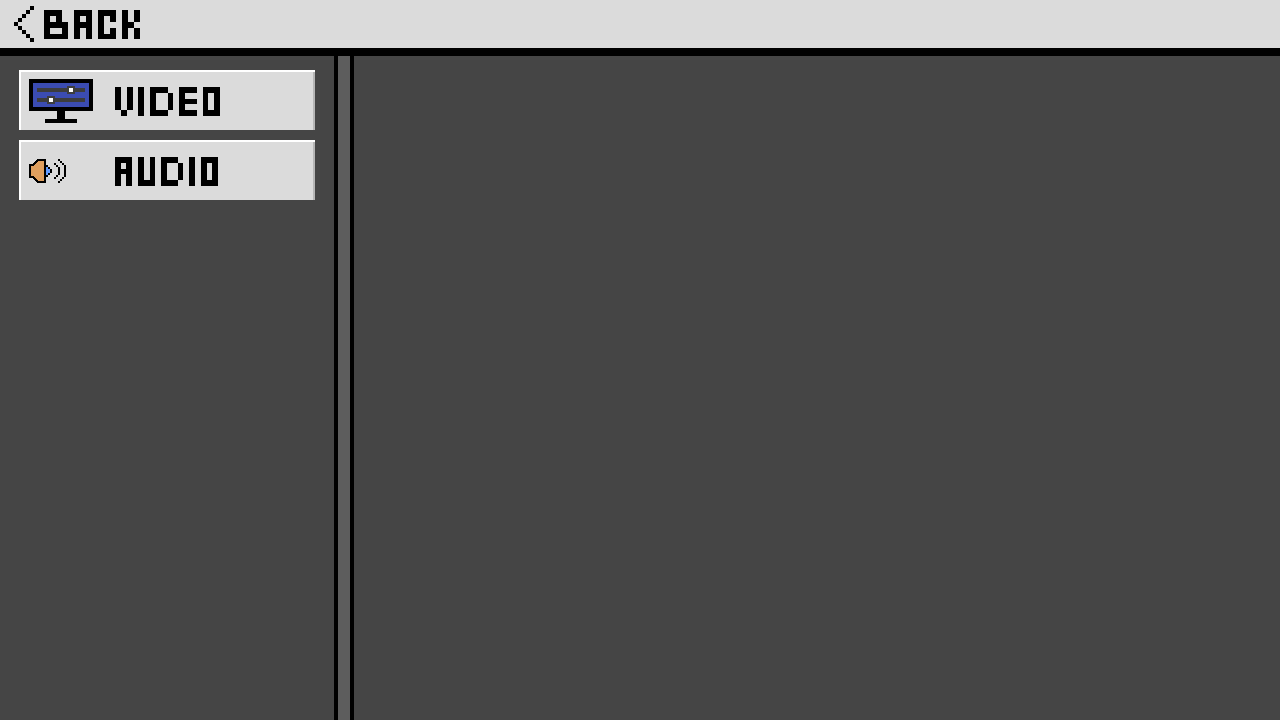
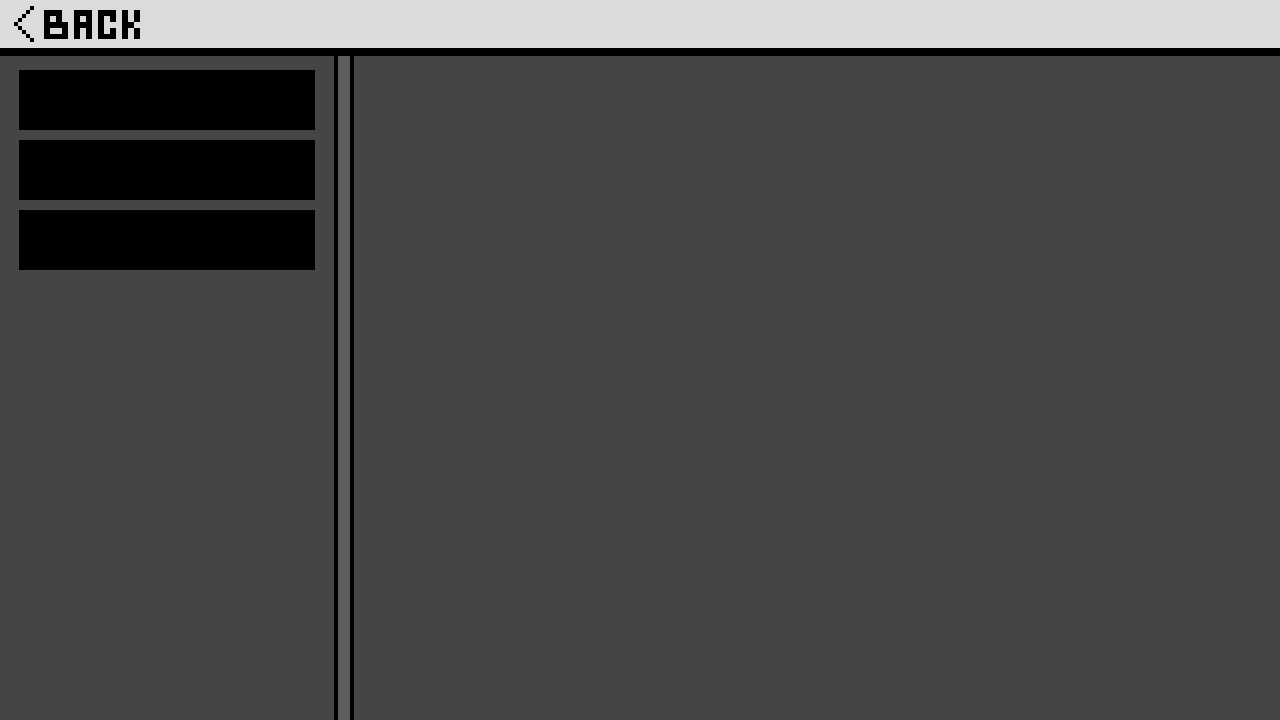
key_selection

Changed region(s): [[0.0, 0.0917, 0.25, 0.3972]]

diff --git a/module.py b/module.py
@@ -1390,15 +1390,26 @@ def menu(run_game):
         flag_mouse_volume_music = False
         rect_volume_music = pygame.Rect(SCREEN_W//3.2,SCREEN_H//2.3,SCREEN_W//1.6,SCREEN_H//25)
         mouse_volume_music = pygame.Rect(MUSIC_VOLUME*rect_volume_music.width/100+rect_volume_music.x,rect_volume_music.top-(SCREEN_H//45*3-rect_volume_music.height)//2,SCREEN_H//72*2,SCREEN_H//45*3)
-        
-        
+        distation_button = SCREEN_H//5.15-SCREEN_H//10.3
+        button_video = Graphic_elements(SCREEN_W//67.3, SCREEN_H//10.3, SCREEN_W//4.3, SCREEN_H//11.7,"image/menu/button/video_w.png")
+        button_audio = Graphic_elements(SCREEN_W//67.3, SCREEN_H//10.3+distation_button, SCREEN_W//4.3, SCREEN_H//11.7,"image/menu/button/audio_w.png")
+        button_control = Graphic_elements(SCREEN_W//67.3, SCREEN_H//10.3+distation_button*2, SCREEN_W//4.3, SCREEN_H//11.7,"image/menu/button/control_w.png")
+        text_control = Font("font/pixel_font.ttf",SCREEN_W//20,'black','Раскладка клавиатуры:',SCREEN_W//3.2,SCREEN_H//8)
         button_display_size = Font("font/pixel_font.ttf",SCREEN_W//20,'black','Разрешение:',SCREEN_W//3.2,SCREEN_H//8)
         list_buttons_display_size =[
                         Font("font/pixel_font.ttf",SCREEN_W//38,'black','1280x720',button_display_size.font_x,button_display_size.font_y+SCREEN_H//8),
                         Font("font/pixel_font.ttf",SCREEN_W//38,'black','1600x920',button_display_size.font_x+SCREEN_W//14.2*2,button_display_size.font_y+SCREEN_H//8),
                         Font("font/pixel_font.ttf",SCREEN_W//38,'black','1920x1080',button_display_size.font_x+SCREEN_W//14.2*4,button_display_size.font_y+SCREEN_H//8),
         ]
-
+        list_control = []
+        list_text_control = ["Использовать","Вверх","Пригнуться","Влево","Вправо"]
+        list_text_button_control = ["  F","  W","  S","  A","  D"]
+        for i in range(5):
+            obj = Graphic_elements(SCREEN_W//3.2,SCREEN_H//4 + SCREEN_W//15 * i,SCREEN_W//2, SCREEN_W//20, "image/menu/menu_button_change.png")
+            text = Font("font/pixel_font.ttf",SCREEN_W//40,'white',list_text_control[i],obj.X + SCREEN_W//40,obj.Y + SCREEN_W//90)
+            text_button = Font("font/pixel_font.ttf",SCREEN_W//40,'black',list_text_button_control[i],obj.X + SCREEN_W//3,obj.Y + SCREEN_W//90)
+            list_control.append([obj,text,text_button])
+        
         for obj in list_buttons_display_size:
             width = SCREEN_W
             height = SCREEN_H
@@ -1415,7 +1426,7 @@ def menu(run_game):
         ]
 
         print(int(config["SCREEN_WIDTH"]),int(config["SCREEN_HEIGHT"]))
-        if int(config["SCREEN_WIDTH"]) == 1920 and int(config["SCREEN_HEIGHT"]) == 1080:
+        if int(config["SCREEN_WIDTH"]) == 0 and int(config["SCREEN_HEIGHT"]) == 0:
             list_button_display_fullsize[0].font_color = 'red'
             for obj in list_buttons_display_size:
                 obj.font_color = (93, 93, 93)
@@ -1427,13 +1438,65 @@ def menu(run_game):
             for event in pygame.event.get():
                 #Услове выхода из игры
                 mouse_cor = pygame.mouse.get_pos() 
-                
+
+                if event.type == pygame.QUIT:
+                    run_option = False
+                if event.type == pygame.KEYDOWN:
+                    for obj in list_control:
+                        if obj[2].font_color == "yellow":
+                            if event.key == 13:#ЕНТЕР
+                                obj[2].font_content[0] = "Enter"
+                            elif event.key == 9:#ТАБ  
+                                obj[2].font_content[0] = "Tab"
+                            elif event.key == 32:#ПРОБЕЛ 
+                                obj[2].font_content[0] = "Space"
+                            elif event.key == 1073742048 or event.key == 1073742052:#КОНТРАЛ
+                                obj[2].font_content[0] = "Ctrl"
+                            elif event.key == 1073742049 or event.key == 1073742053:#ШИФТ
+                                obj[2].font_content[0] = "Shift"
+                            elif event.key == 1073742050 or event.key == 1073742054:#АЛЬТ
+                                obj[2].font_content[0] = "Alt"
+                            elif event.key == 1073741906:#Вверх
+                                obj[2].font_content[0] = "up"
+                            elif event.key == 1073741905:#вниз
+                                obj[2].font_content[0] = "down"
+                            elif event.key == 1073741904:#влево
+                                obj[2].font_content[0] = "left"
+                            elif event.key == 1073741903:#вправо
+                                obj[2].font_content[0] = "right"
+                            else:
+                                obj[2].font_content[0] = str(event.unicode)
+                            
+                            obj[2].start_content = obj[2].font_content[0]
+                            obj[2].font_content[0] = "> "+obj[2].font_content[0]+" <"
+                            print(event)
+
+                            break
 
                 if event.type == pygame.MOUSEBUTTONDOWN and event.button == 1:
                     obj_button_option = pygame.Rect(0, 0, SCREEN_W//3.8, SCREEN_H) 
-                    obj_video = pygame.Rect(SCREEN_W//67.3, SCREEN_H//10.3, SCREEN_W//4.3, SCREEN_H//12.2)
                     obj_back = pygame.Rect(SCREEN_W//91.4, SCREEN_H//130, SCREEN_W//10.24, SCREEN_H//20.571)
-                    obj_audio = pygame.Rect(SCREEN_W//67.3, SCREEN_H//5.15, SCREEN_W//4.3, SCREEN_H//12.2)
+                    if flag_option == "control":
+                        for obj in list_control:
+                            if obj[0].RECT.collidepoint(mouse_cor[0],mouse_cor[1]):
+                                for obj2 in list_control:
+                                    obj2[0].path = "image/menu/menu_button_change.png"
+                                    obj2[0].image_load()
+                                    obj2[2].font_content[0] = obj2[2].start_content
+                                    obj2[2].font_color = "black"
+                                obj[0].path = "image/menu/presed_menu_button_change.png"
+                                obj[0].image_load()
+                                if not ">" in obj[2].font_content[0]:
+                                    obj[2].font_content[0] = "> "+obj[2].font_content[0].split("  ")[-1]+" <"
+                                obj[2].font_color = "yellow"
+                                break
+                            else:
+                                for obj2 in list_control:
+                                    obj2[0].path = "image/menu/menu_button_change.png"
+                                    obj2[0].image_load()
+                                    obj2[2].font_content[0] = obj2[2].start_content
+                                    obj2[2].font_color = "black"
+
                     if obj_button_option.collidepoint(mouse_cor[0],mouse_cor[1]):
                         if obj_back.collidepoint(mouse_cor[0],mouse_cor[1]) :
                             #СДЕСЬ СОХРАНЯЕМ ДАННЫЕ
@@ -1462,10 +1525,12 @@ def menu(run_game):
                                 json.dump(settings,file,indent=4,ensure_ascii=True)
                             # СОХРАНИЛИ ДАННЫЕ
                             run_option = False
-                        elif obj_video.collidepoint(mouse_cor[0],mouse_cor[1]):
+                        elif button_video.RECT.collidepoint(mouse_cor[0],mouse_cor[1]):
                             flag_option = "video"
-                        elif obj_audio.collidepoint(mouse_cor[0],mouse_cor[1]):
+                        elif button_audio.RECT.collidepoint(mouse_cor[0],mouse_cor[1]):
                             flag_option = "audio"
+                        elif button_control.RECT.collidepoint(mouse_cor[0],mouse_cor[1]):
+                            flag_option = "control"
                         else:
                             flag_option = "not"
                     if flag_option == "audio":        
@@ -1503,24 +1568,53 @@ def menu(run_game):
                         if flag_mouse_volume_music:
                             flag_mouse_volume_music = False
             
-            bg_option.path = 'image/menu/option_'+flag_option+'.png'
-            bg_option.image_load()
-            bg_option.show_image(win)
             
+            bg_option.show_image(win)
+            button_video.show_image(win)
+            button_audio.show_image(win)
+            button_control.show_image(win)
             if flag_option == "not":
                 help_text = Font("font/pixel_font.ttf",SCREEN_W//30,"black","Выберите категорию ;в которой хотите внести изменение;;Изменения вступят в игру;после перезахода в игру",SCREEN_W//3.2,SCREEN_H//8,bold=False,index=5)
                 help_text.show_text(win)
+
+                
             if flag_option == "video":
+                if button_video.path != "image/menu/button/video_b.png":
+                    button_video.path = "image/menu/button/video_b.png"
+                    button_video.image_load()
                 button_display_size.show_text(win)
                 for i in list_buttons_display_size:
                     i.show_text(win)
                 button_display_fullsize.show_text(win)
                 for i in list_button_display_fullsize:
                     i.show_text(win)
+            else:
+                if button_video.path != "image/menu/button/video_w.png":
+                    button_video.path = "image/menu/button/video_w.png"
+                    button_video.image_load()
             if flag_option == "audio":
-                
+                if button_audio.path != "image/menu/button/audio_b.png":
+                    button_audio.path = "image/menu/button/audio_b.png"
+                    button_audio.image_load()
                 slider(sound_power, flag_mouse_volume_sound, rect_volume_sound, mouse_volume_sound, mouse_cor, "Громкость звука ",win)
                 slider(music_power, flag_mouse_volume_music, rect_volume_music, mouse_volume_music, mouse_cor, "Громкость музики ",win)
+            else:
+                if button_audio.path != "image/menu/button/audio_w.png":
+                    button_audio.path = "image/menu/button/audio_w.png"
+                    button_audio.image_load()
+            if flag_option == "control":
+                if button_control.path != "image/menu/button/control_b.png":
+                    button_control.path = "image/menu/button/control_b.png"
+                    button_control.image_load() 
+                text_control.show_text(win)
+                for obj in list_control:
+                    obj[0].show_image(win)
+                    obj[1].show_text(win)
+                    obj[2].show_text(win)
+            else:
+                if button_control.path != "image/menu/button/control_w.png":
+                    button_control.path = "image/menu/button/control_w.png"
+                    button_control.image_load() 
             pygame.display.flip()
 
   

diff --git a/test.py b/test.py
@@ -1,0 +1,17 @@
+
+
+'key': 13#ЕНТЕР 
+'key': 9 #ТАБ  
+'key': 32#ПРОБЕЛ 
+
+'key': 1073742048#КОНТРАЛ 
+'key': 1073742049#ШИФТ 
+'key': 1073742050#АЛЬТ
+'key': 1073742052#ПРАВИЙ КОНТРАЛ
+'key': 1073742053#ПРАВИЙ ШИФТ 
+'key': 1073742054#ПРАВЫЙ АЛЬТ 
+
+1073741906#Вверх вниз влево вправо
+1073741905#Вверх вниз влево вправо
+1073741904#Вверх вниз влево вправо
+1073741903#Вверх вниз влево вправо
